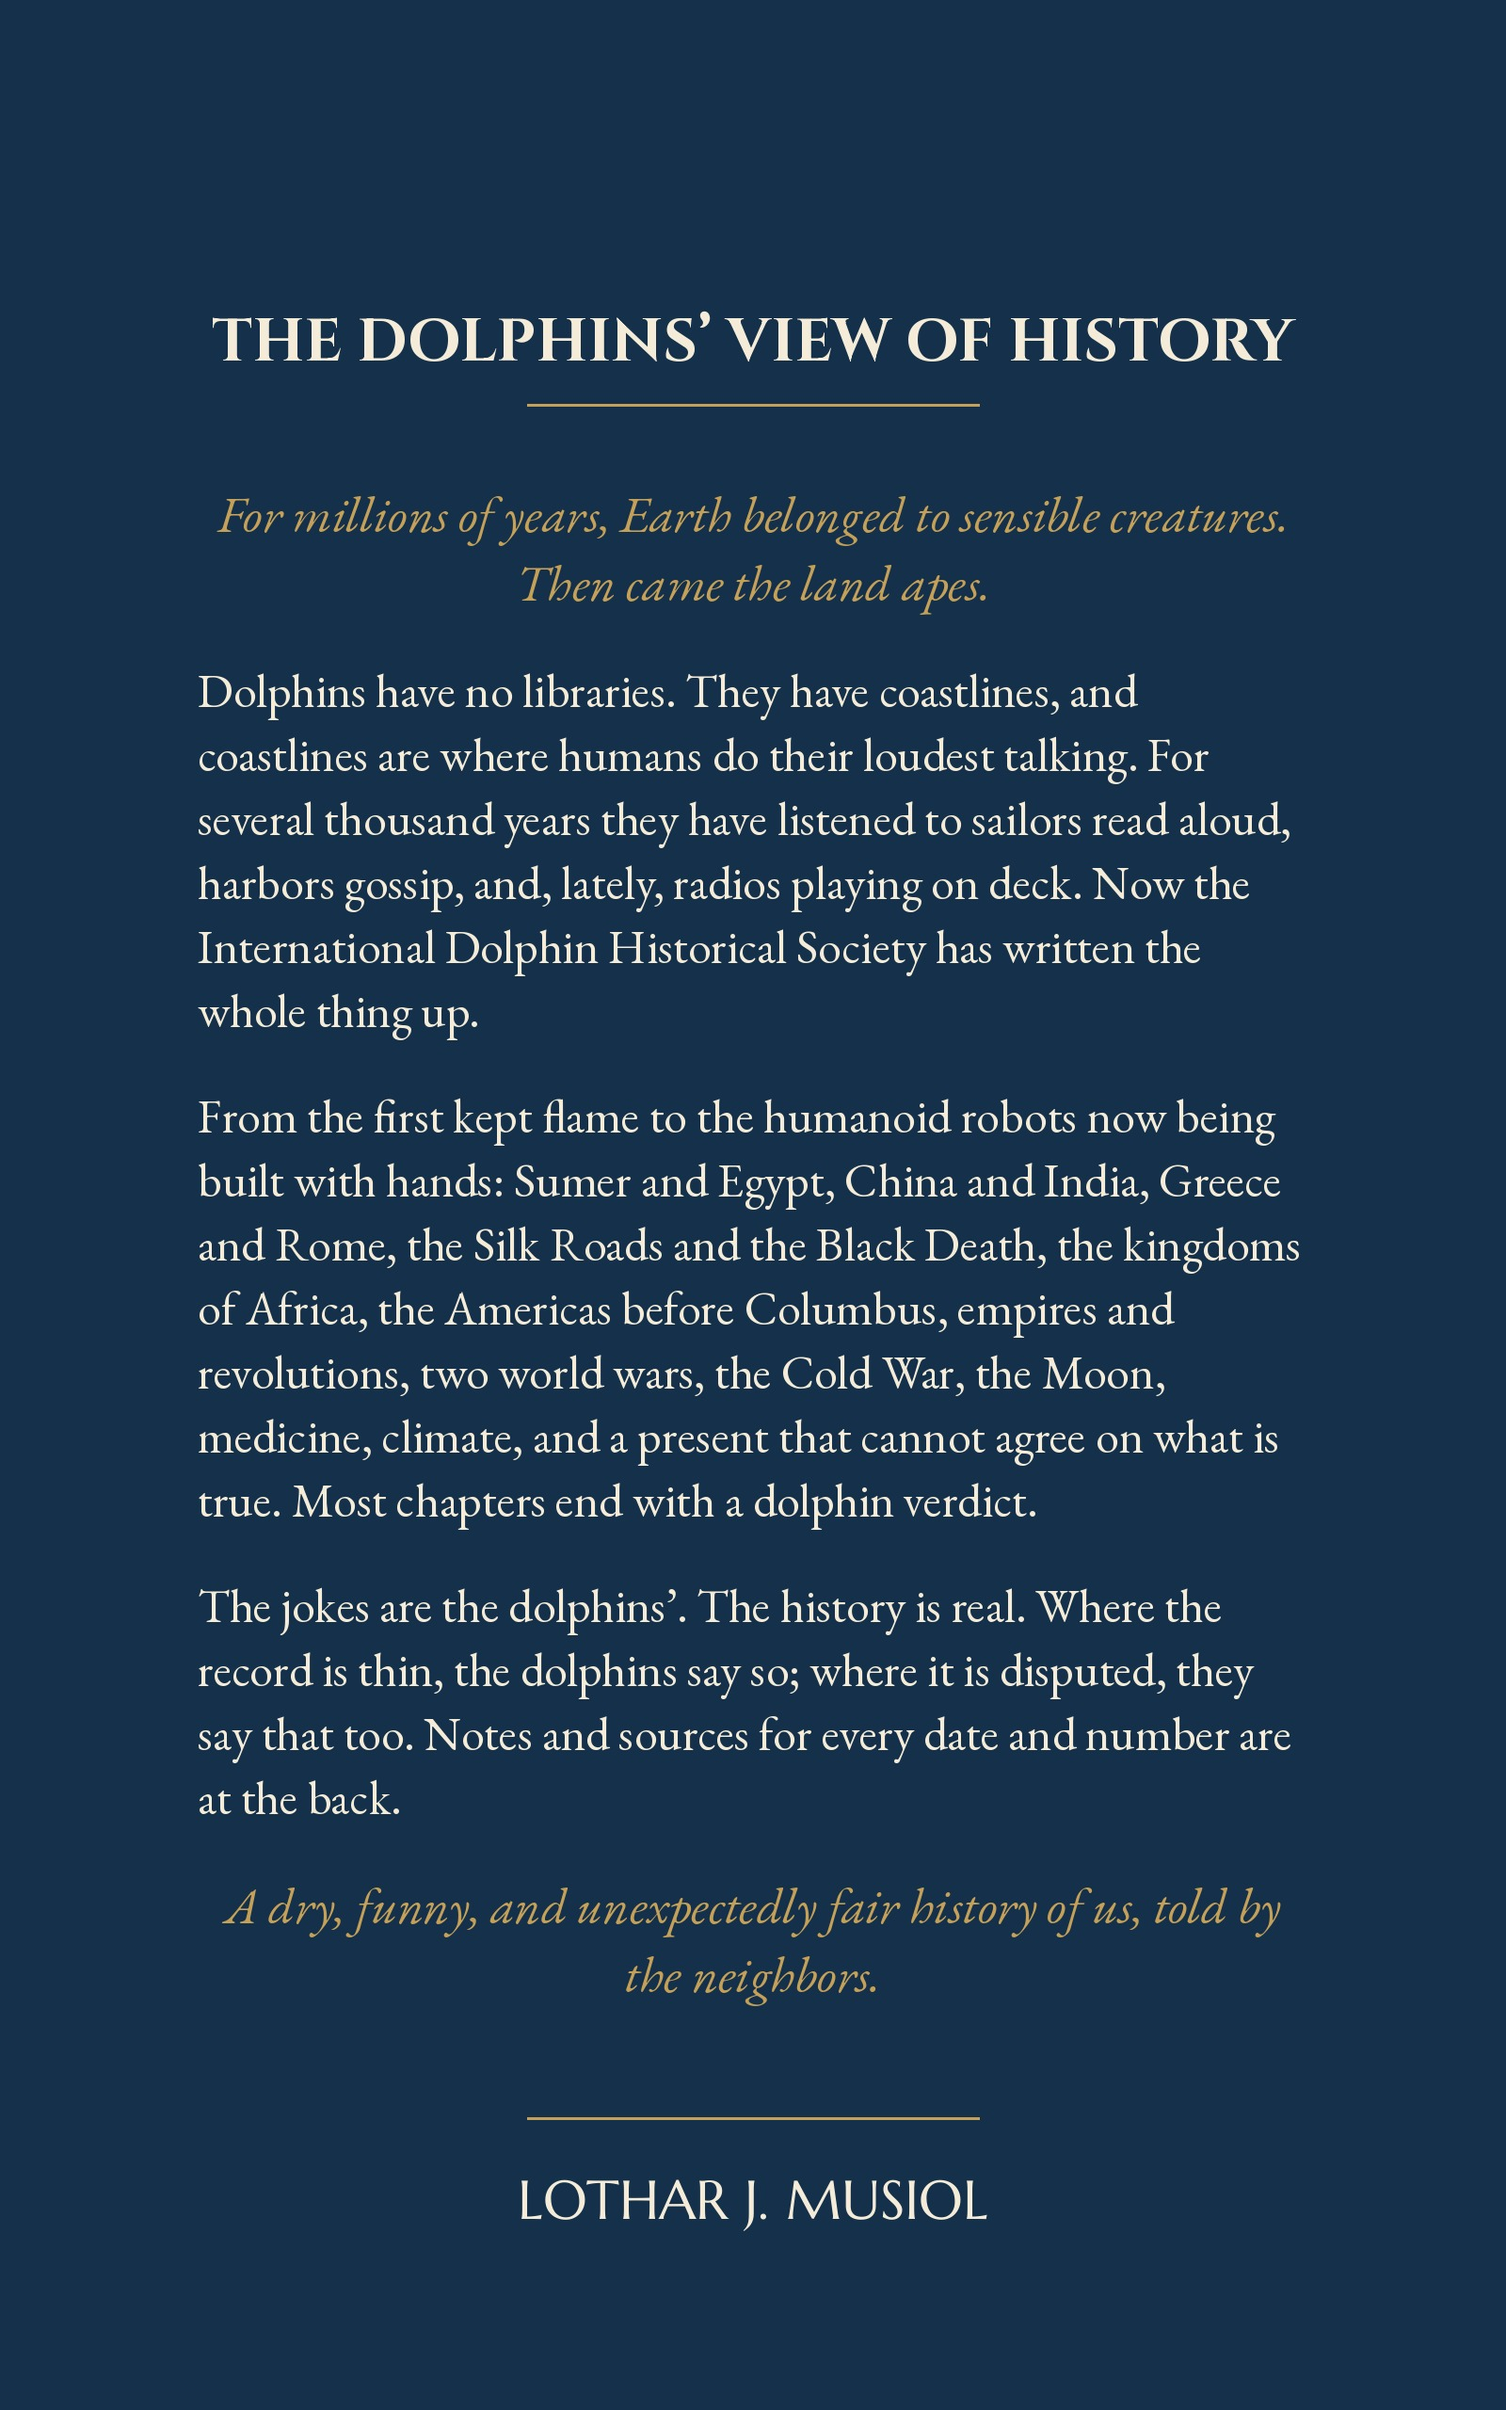
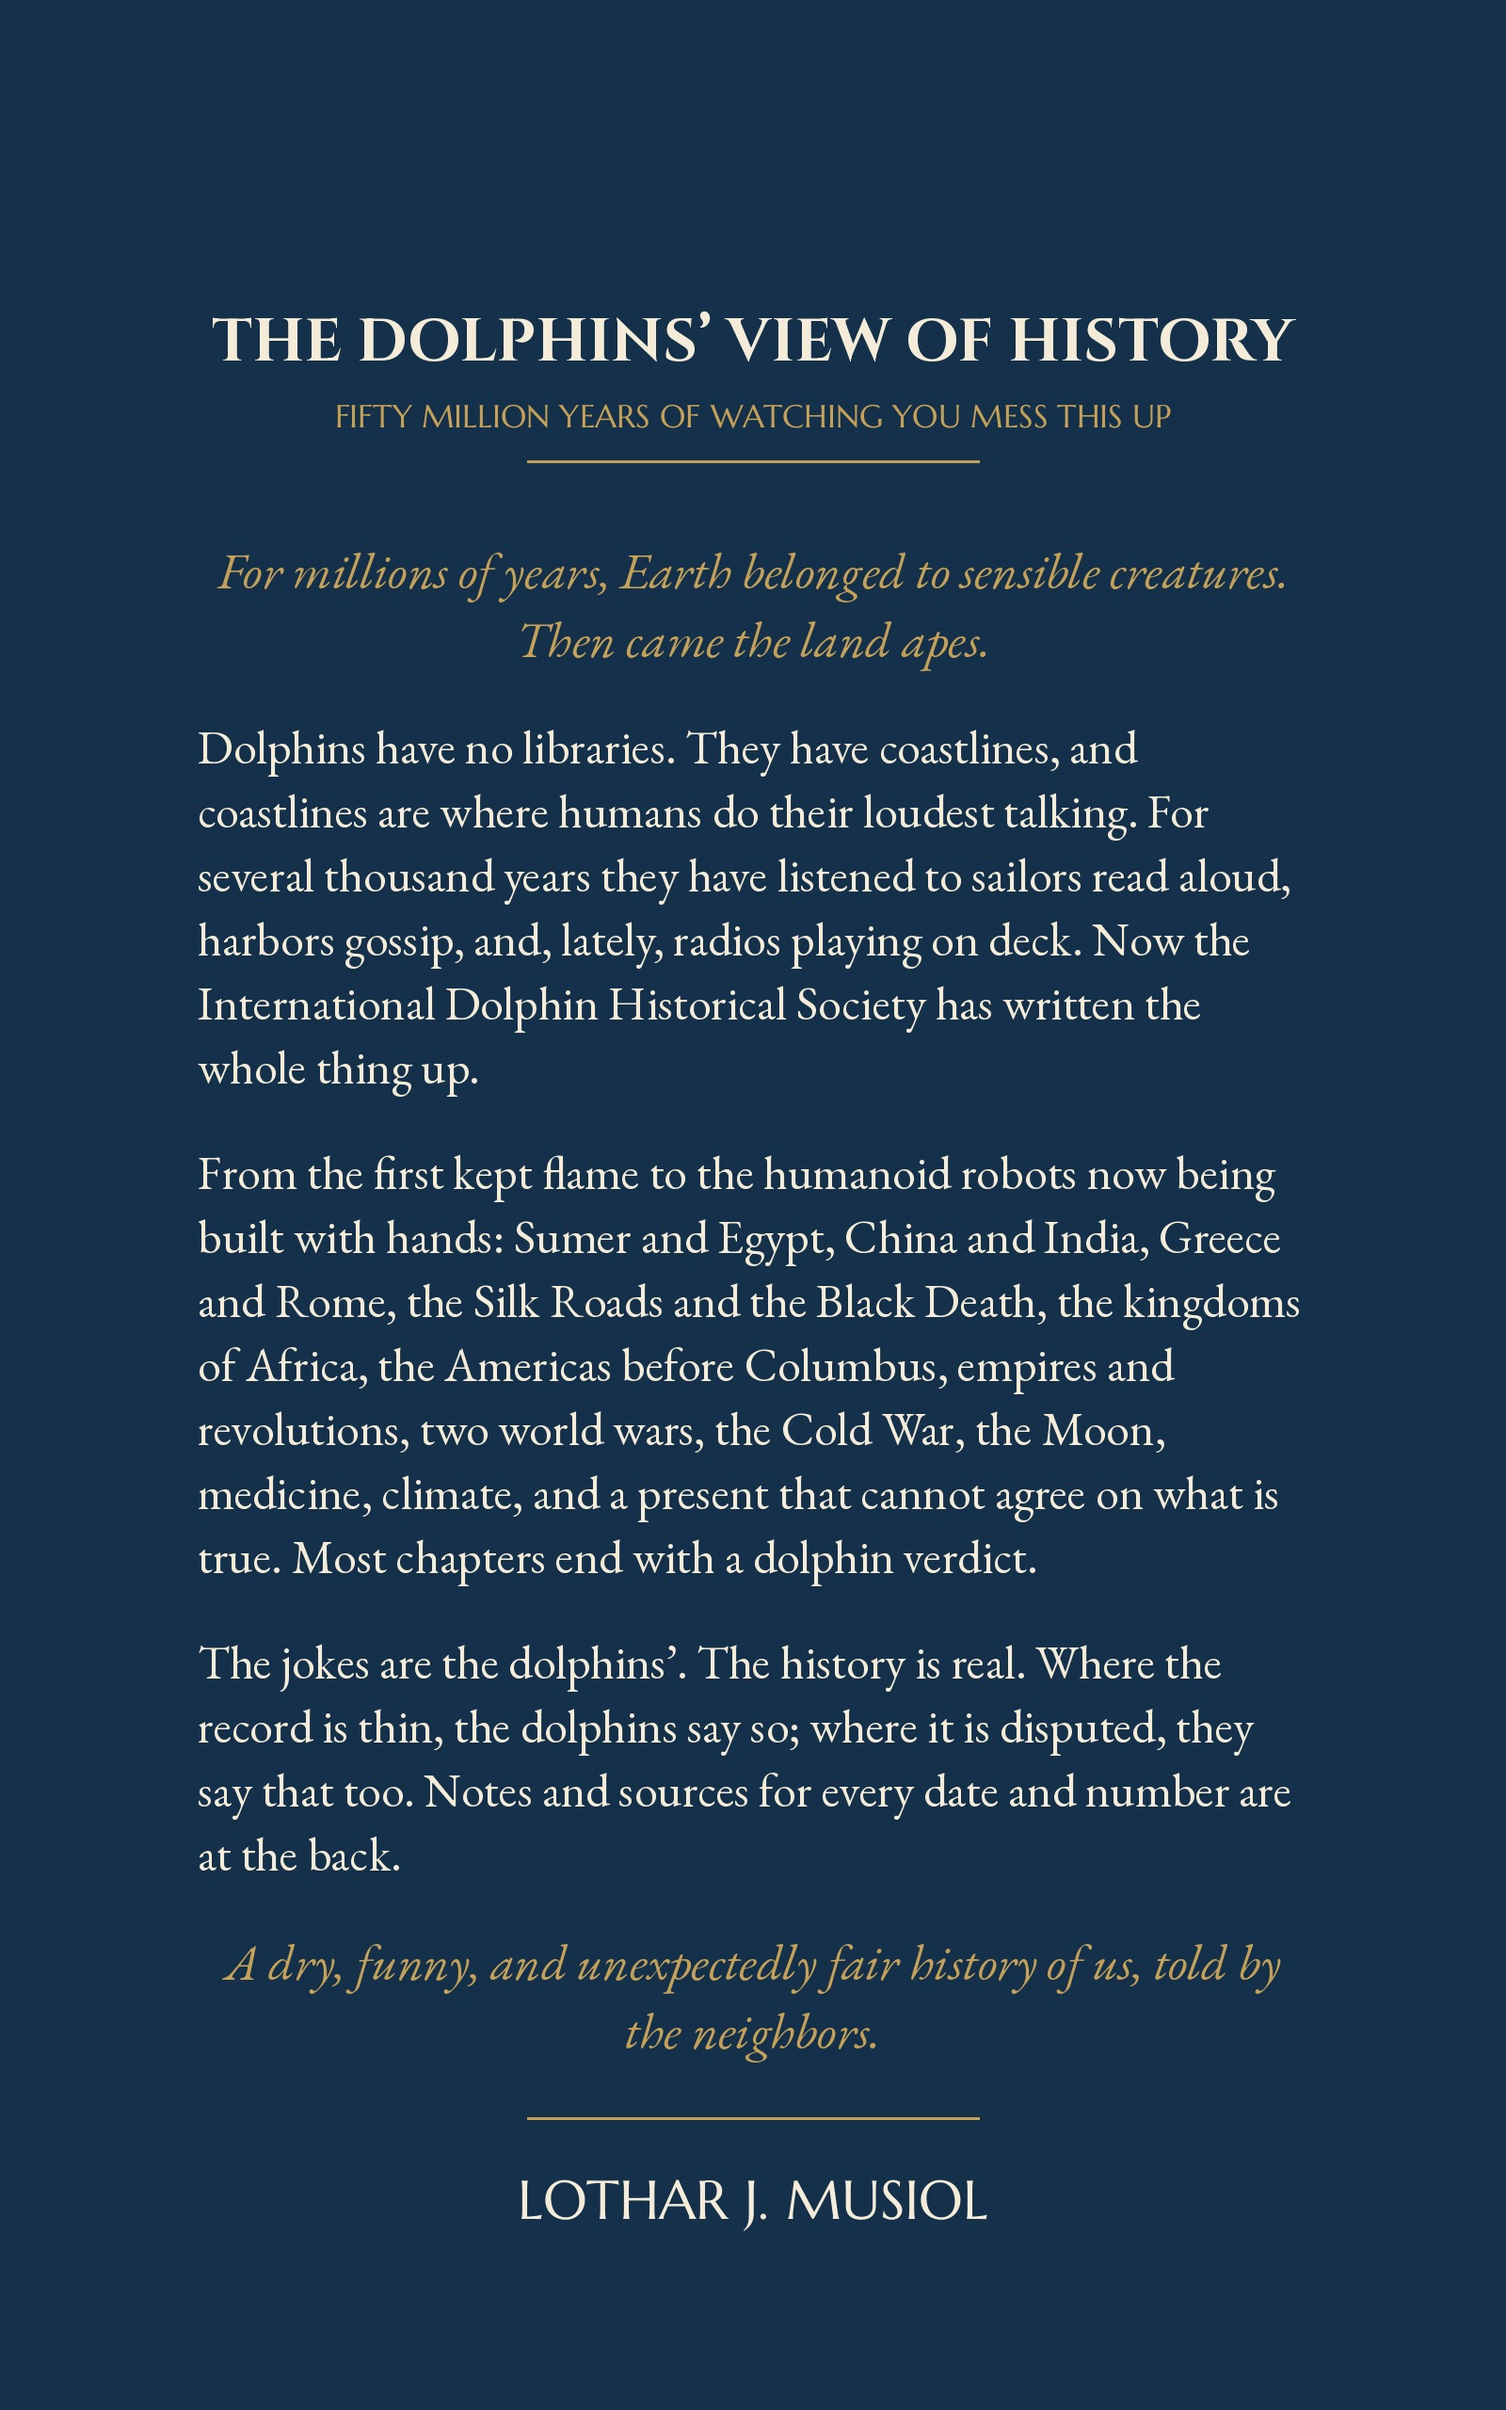
Dolphins: fix the two real packaging gaps from a second outside read
Back cover had zero reference to the new subtitle ("Fifty Million
Years of Watching You Mess This Up") after the front cover was just
redesigned specifically to promise the joke harder - undercutting
that work by leading with the same quiet, un-punchy opening. Added
the subtitle as a gold callout under the title, matching the cover's
existing style; confirmed it fits with no overlap.

Added a third BISAC category, Nature / Animals / Marine Mammals,
alongside the existing two - the listing only reached readers already
searching funny/history, missing the nature/animal-nonfiction
audience this book's whole dolphin conceit is positioned to catch.

A third flagged item (whether the physics chapter points readers to
its own appendix) turned out to already be handled - verified the
pointer line exists, so no fix was needed there.

Claude-Session: https://claude.ai/code/session_01No3CTqqXoAC7DqUj3kRTnA

Changed region(s): [[0.125, 0.1562, 0.875, 0.8438], [0.3438, 0.7812, 0.8438, 0.875]]

diff --git a/The Dolphins' View of History/scripts/make_back_cover.py b/The Dolphins' View of History/scripts/make_back_cover.py
@@ -29,7 +29,8 @@ paras=[
  ("i","A dry, funny, and unexpectedly fair history of us, told by the neighbors."),
 ]
 y=320
-ctext(y,"THE DOLPHINS\u2019 VIEW OF HISTORY",ft,CREAM); y+=110
+ctext(y,"THE DOLPHINS\u2019 VIEW OF HISTORY",ft,CREAM); y+=100
+ctext(y,"FIFTY MILLION YEARS OF WATCHING YOU MESS THIS UP",font('Marcellus SC/MarcellusSC-Regular.ttf',34),GOLD); y+=70
 d.line([(560,y),(1040,y)],fill=GOLD,width=3); y+=80
 MAXW=1180
 for k,t in paras:

diff --git a/The Dolphins' View of History/notes/KDP_Description.md b/The Dolphins' View of History/notes/KDP_Description.md
@@ -9,6 +9,8 @@
 
 **Subtitle change, 12 October 2026:** was "A Non-Human, Non-Building Species Delivers Its Verdicts," a clinical description of the premise rather than a promise of the voice. Changed after an outside read specifically flagged this — a cover's whole job is to promise the joke, and the old line read like an abstract, not a punchline. The subtitle doesn't appear anywhere in the book itself (checked: it's KDP-listing metadata only), so this was a zero-risk, reversible text change. Trade-off worth flagging: the new subtitle drops the word "History" that the old one also lacked but that the title itself still carries, so the BISAC categories and keywords below are doing all the search-term work for that; worth revisiting if KDP search performance suggests the listing needs it restated.
 
+**Packaging fixes, 12 October 2026 (later):** a second outside read caught that the back cover (`scripts/make_back_cover.py`) still had zero reference to the new subtitle — the front cover had just been redesigned specifically to promise the joke harder, and the back cover was undercutting that by leading with the same quiet Prologue-tone opening with no punchline anywhere. Added the subtitle as a small gold callout under the title, matching the cover's existing style; regenerated and confirmed it fits cleanly above the author block with no overlap. Also added a third BISAC category, Nature / Animals / Marine Mammals, alongside the existing two — the listing previously only reached readers already searching for funny/history, missing anyone browsing from the nature/animal-nonfiction side, which this cover's whole dolphin conceit is positioned to catch.
+
 ## Product description
 
 For millions of years, Earth belonged to sensible creatures. Then came the land apes.
@@ -27,6 +29,7 @@ A dry, funny, and unexpectedly fair history of us, told by the neighbors.
 
 History / World
 Humor / Topic / History
+Nature / Animals / Marine Mammals
 
 ## Keywords
 
